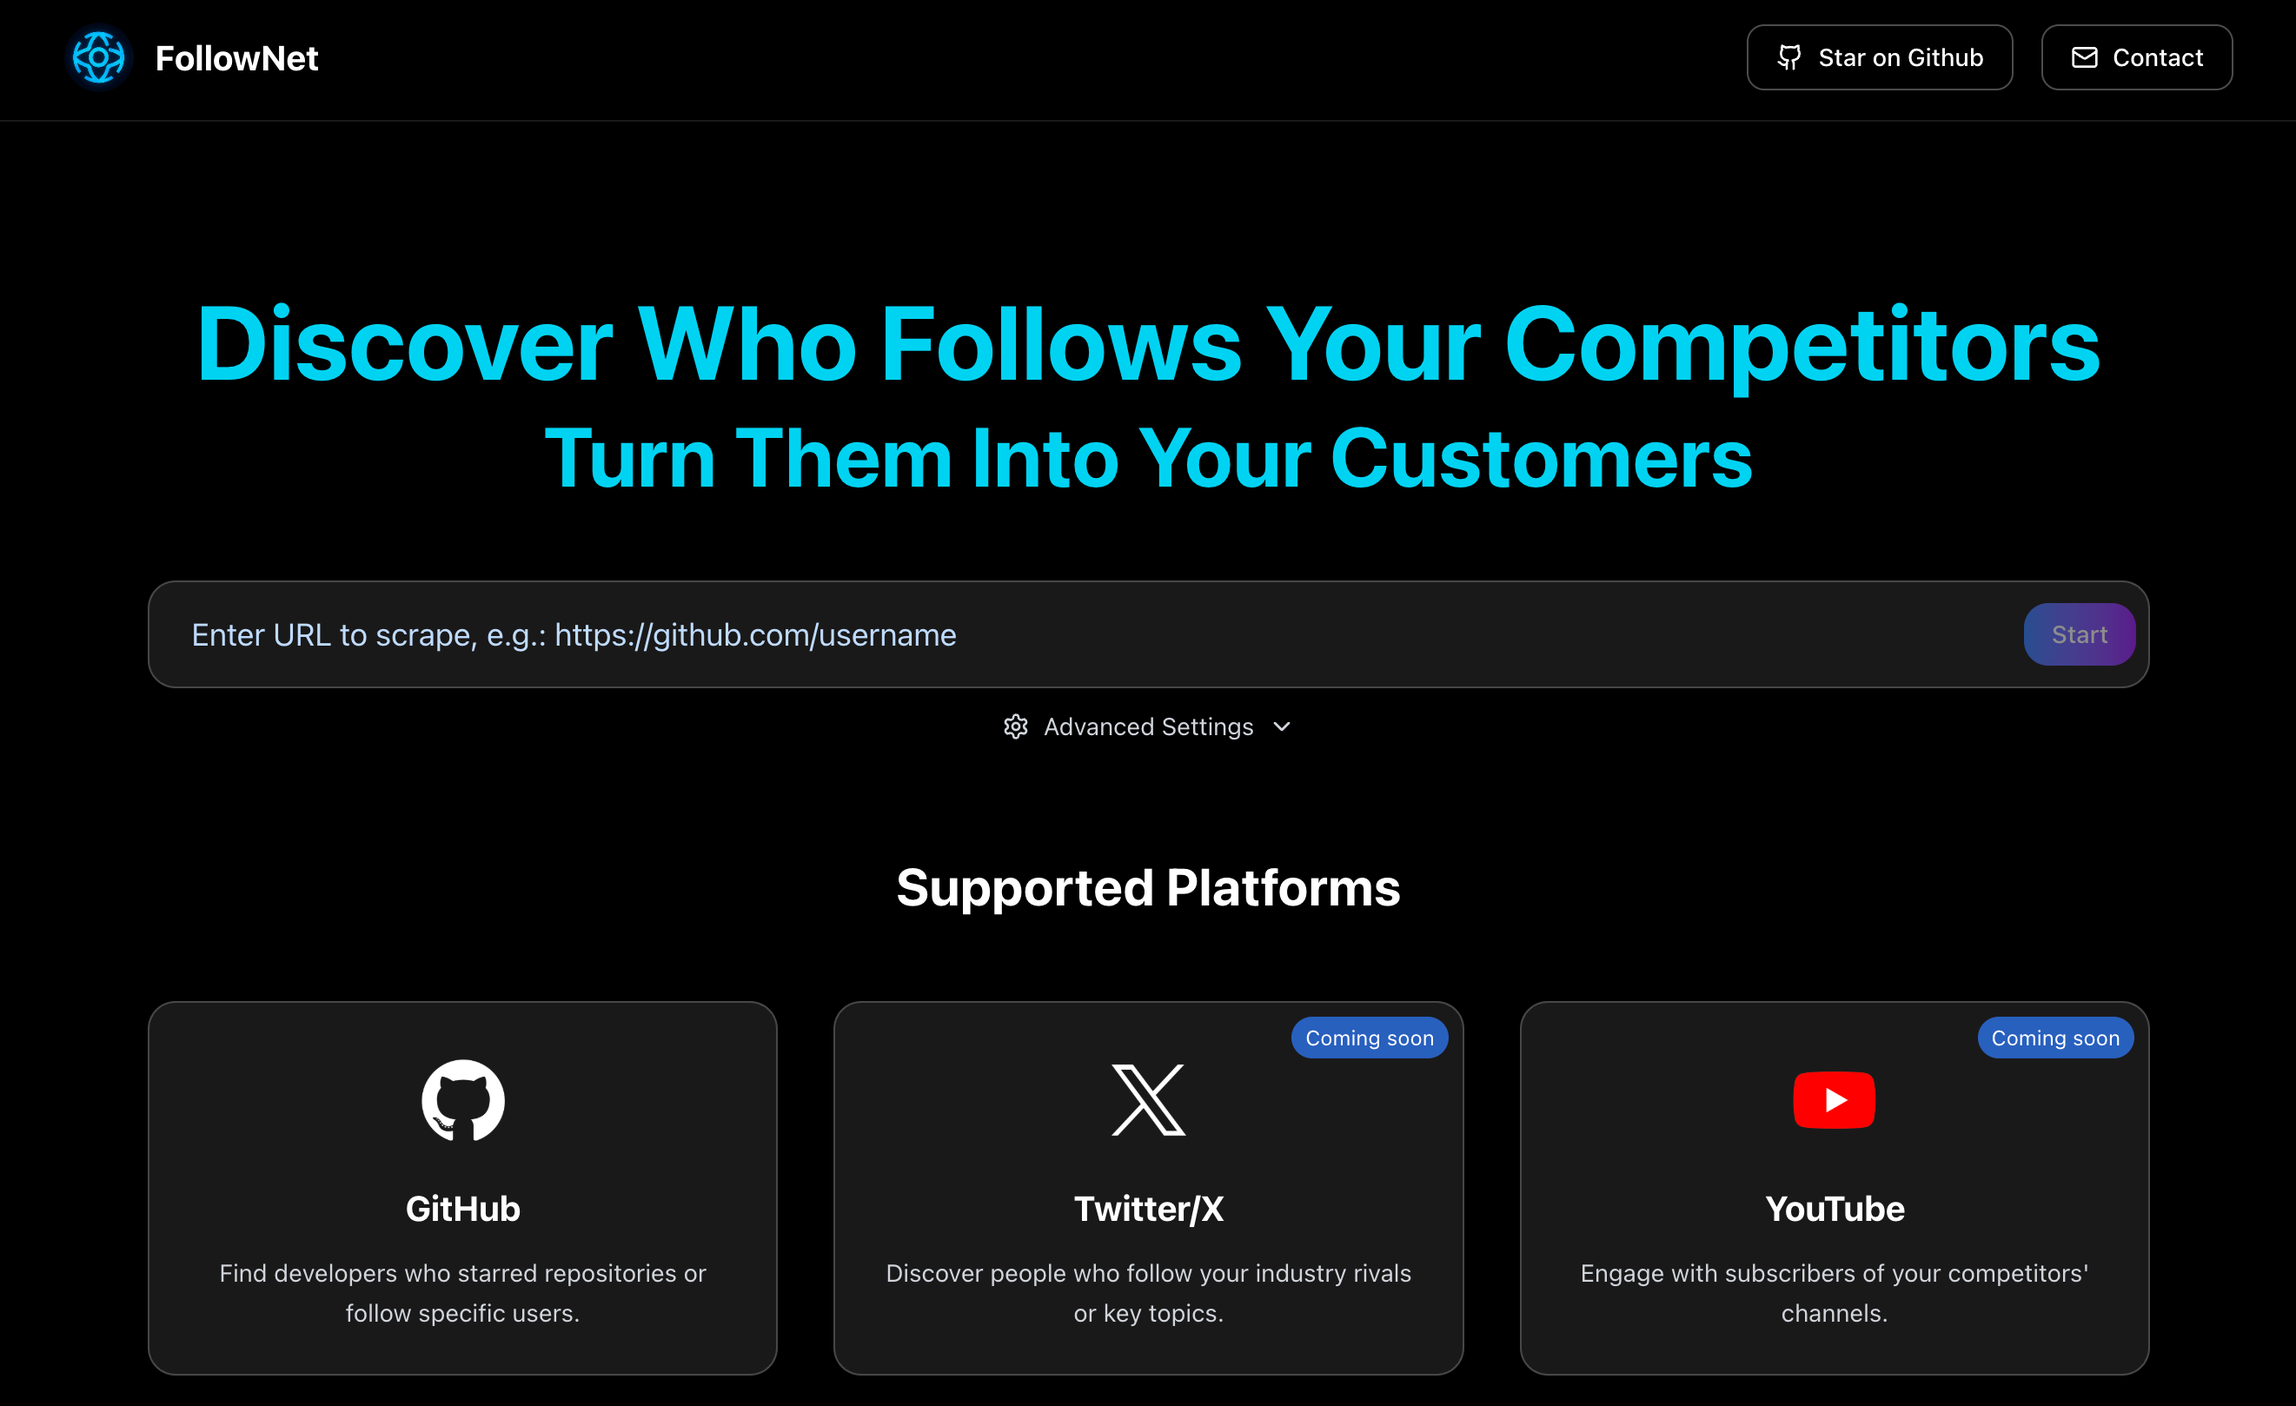
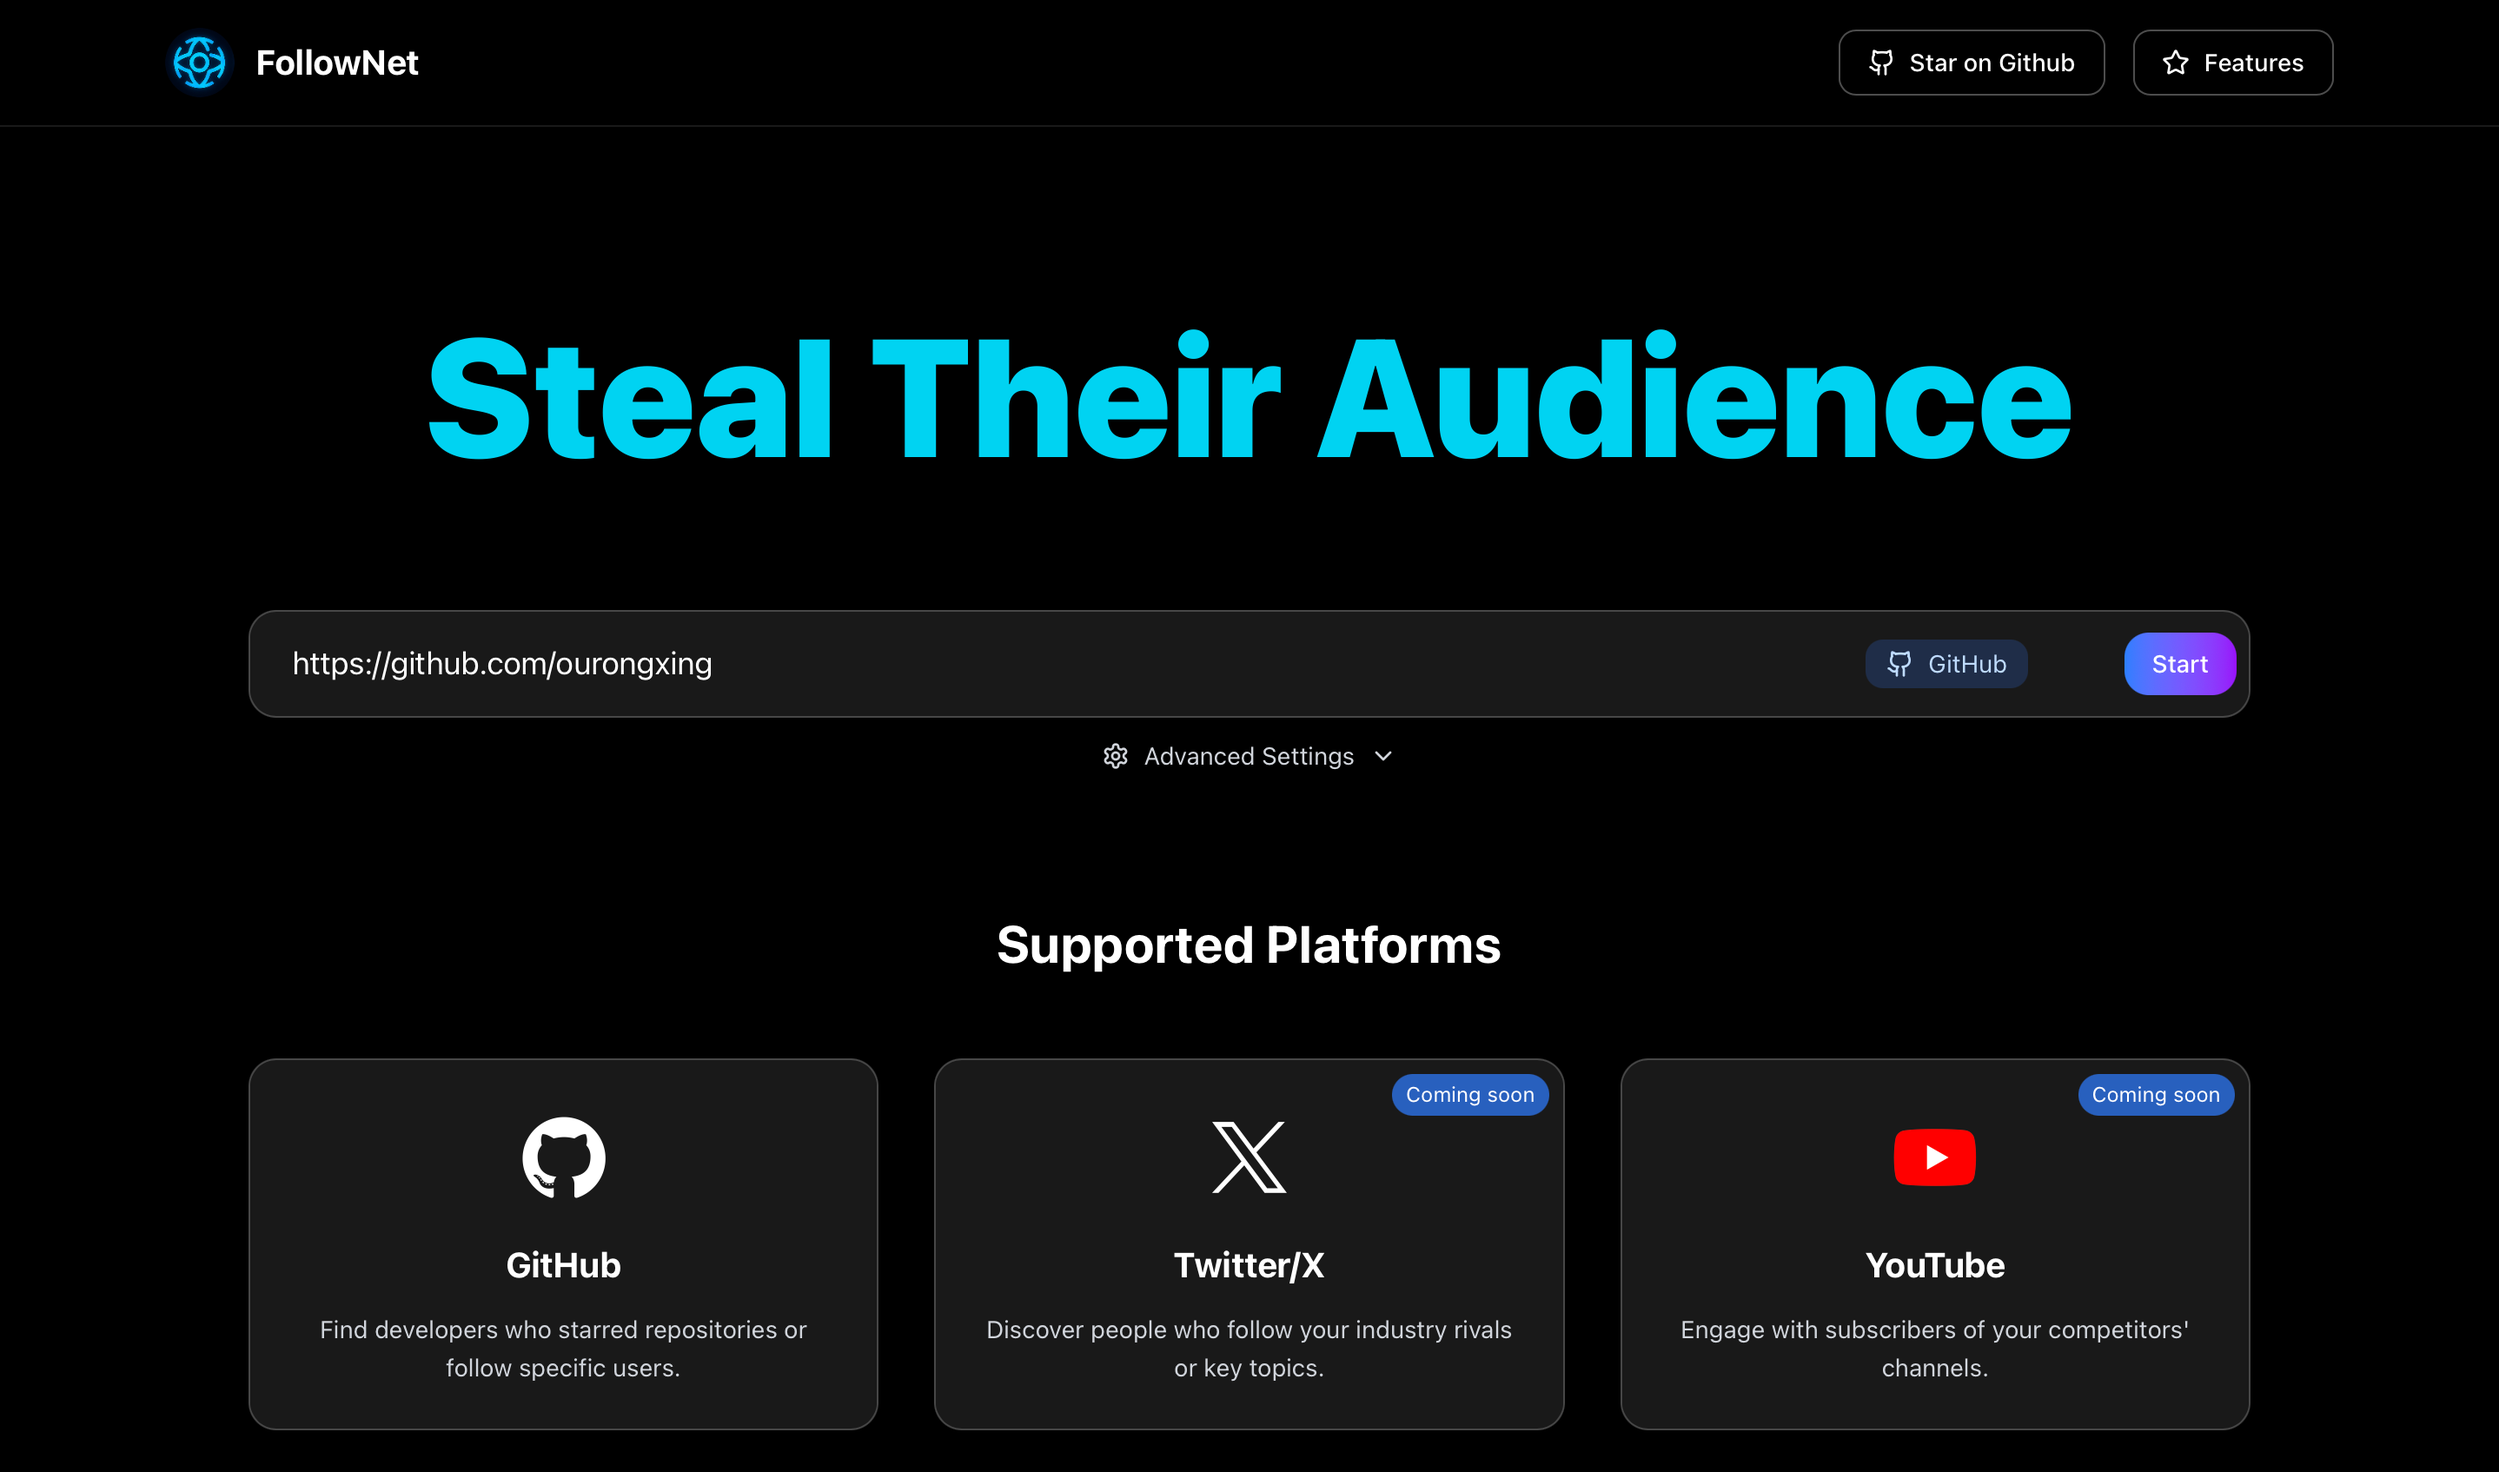
Update README.md and demo.png

diff --git a/README.md b/README.md
@@ -1,6 +1,7 @@
 # FollowNet
 
-**Steal Their Audience. Build Yours.**  
+**🏆 Steal Their Audience. Build Yours.**  
+
 FollowNet is the ultimate competitive intelligence tool that helps you steal your competitor's audience and turn them into your customers. Instead of building from zero, discover who's already engaged with your competitors, export their follower data, and strategically target the audience that's most likely to convert.
 
 ![demo](./demo.png)
